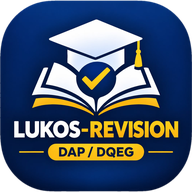
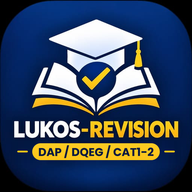
Add files via upload

diff --git a/index.html b/index.html
@@ -3,30 +3,33 @@
 <head>
 <meta charset="utf-8">
 <meta name="viewport" content="width=device-width,initial-scale=1,viewport-fit=cover">
-<meta http-equiv="Content-Security-Policy" content="default-src 'self'; script-src 'self' https://cdn.jsdelivr.net; style-src 'self' 'unsafe-inline'; img-src 'self' data:; font-src 'self'; connect-src 'self' https://fwzngfnzgrhkfikrzchu.supabase.co wss://fwzngfnzgrhkfikrzchu.supabase.co; frame-src 'none'; object-src 'none'; base-uri 'none'; form-action 'self'; manifest-src 'self'; worker-src 'self'">
+<meta http-equiv="Content-Security-Policy" content="default-src 'self'; script-src 'self' https://cdn.jsdelivr.net; style-src 'self' 'unsafe-inline' https://fonts.googleapis.com; img-src 'self' data:; font-src 'self' https://fonts.gstatic.com; connect-src 'self' https://fwzngfnzgrhkfikrzchu.supabase.co wss://fwzngfnzgrhkfikrzchu.supabase.co; frame-src 'none'; object-src 'none'; base-uri 'none'; form-action 'self'; manifest-src 'self'; worker-src 'self'">
 <meta name="referrer" content="no-referrer">
 <meta name="theme-color" content="#0b1f3a">
-<meta name="description" content="LUKOS RÉVISION — Préparation au DAP, au DQEG et aux CAT1-2 Infanterie.">
+<meta name="description" content="LUKOS-REVISION — Préparation au DAP, au DQEG et aux CAT1-2 Infanterie.">
 <link rel="manifest" href="manifest.json">
-<link rel="icon" href="lk192.png">
+<link rel="icon" type="image/png" href="lk192.png">
 <link rel="apple-touch-icon" href="lkapple.png">
 <meta name="mobile-web-app-capable" content="yes">
 <meta name="apple-mobile-web-app-capable" content="yes">
-<title>LUKOS RÉVISION — DAP · DQEG · CAT1-2 INFANTERIE</title>
+<title>LUKOS-REVISION — DAP · DQEG · CAT1-2</title>
+<link rel="preconnect" href="https://fonts.googleapis.com">
+<link rel="preconnect" href="https://fonts.gstatic.com" crossorigin>
+<link rel="stylesheet" href="https://fonts.googleapis.com/css2?family=Plus+Jakarta+Sans:wght@500;600;700;800&display=swap">
 <link rel="stylesheet" href="app.css">
 </head>
 <body>
 <header class="topbar" id="topbar">
-  <a class="logo" href="#/" aria-label="Accueil LUKOS RÉVISION"><span class="logo-mark">L</span><span class="logo-text">LUKOS <b>RÉVISION</b></span></a>
+  <a class="logo" href="#/" aria-label="Accueil LUKOS-REVISION"><img class="logo-img" src="logo-header.png" alt="" width="44" height="44"><span class="logo-text"><span class="lt1">LUKOS-<b>REVISION</b></span><span class="lt2">DAP · DQEG · CAT1-2</span></span></a>
   <nav class="topnav" id="topnav" aria-label="Navigation principale"></nav>
 </header>
 <main id="app" tabindex="-1">
-  <div class="center-load"><div class="spinner" aria-hidden="true"></div><p>Chargement de LUKOS RÉVISION…</p></div>
+  <div class="center-load"><div class="spinner" aria-hidden="true"></div><p>Chargement de LUKOS-REVISION…</p></div>
 </main>
 <nav class="bottomnav" id="bottomnav" aria-label="Navigation du parcours"></nav>
 <div id="toasts" class="toasts" role="status" aria-live="polite"></div>
 <footer class="foot" id="foot"></footer>
-<noscript><p class="noscript">LUKOS RÉVISION nécessite JavaScript.</p></noscript>
+<noscript><p class="noscript">LUKOS-REVISION nécessite JavaScript.</p></noscript>
 <script src="https://cdn.jsdelivr.net/npm/@supabase/supabase-js@2.45.4/dist/umd/supabase.min.js" crossorigin="anonymous"></script>
 <script src="config.js"></script>
 <script src="app.js"></script>
